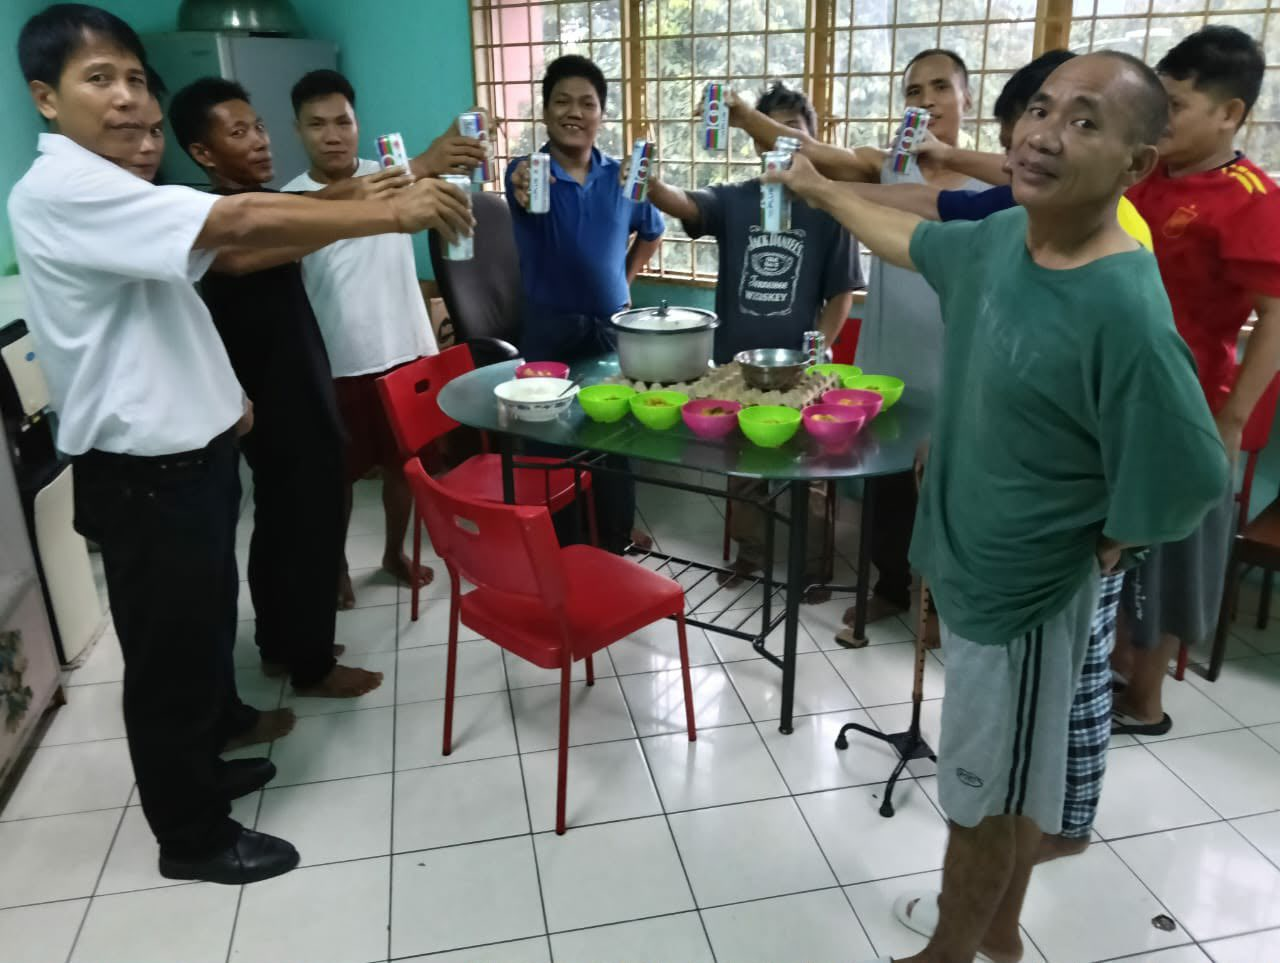
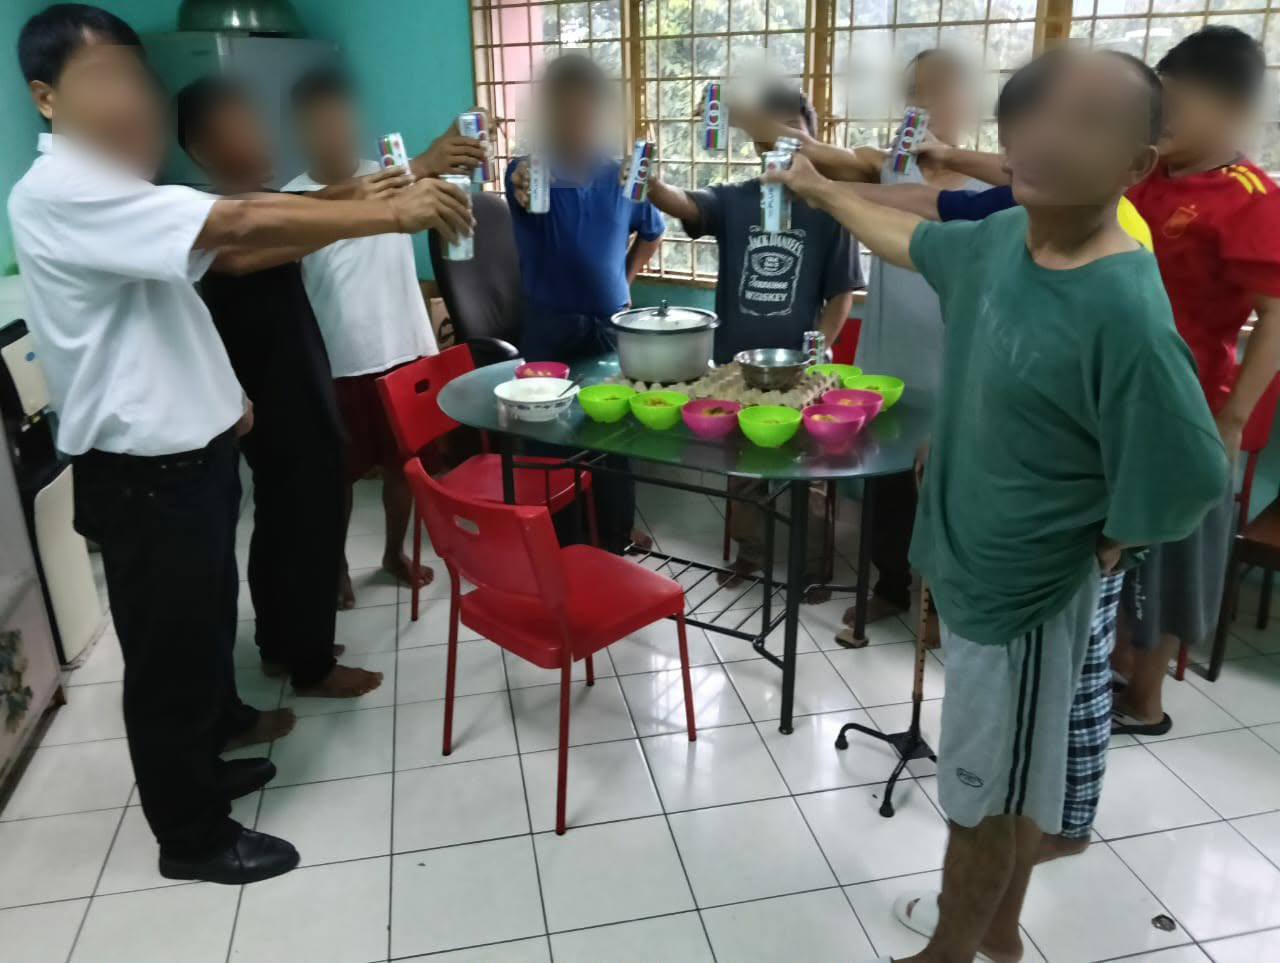
Update version to 1.1.0, add private directory to .gitignore, and update sitemap lastmod dates. Include Facebook App ID meta tag in layout.

diff --git a/src/app/layout.tsx b/src/app/layout.tsx
@@ -17,6 +17,12 @@ const poppins = Poppins({
   variable: '--font-poppins',
 })
 
+// Optional: set NEXT_PUBLIC_FACEBOOK_APP_ID (or NEXT_PUBLIC_FB_APP_ID) to emit fb:app_id for social debuggers.
+const facebookAppId =
+  process.env.NEXT_PUBLIC_FACEBOOK_APP_ID?.trim() ||
+  process.env.NEXT_PUBLIC_FB_APP_ID?.trim() ||
+  ''
+
 export const metadata: Metadata = {
   title: seoConfig.default.title,
   description: seoConfig.default.description,
@@ -91,6 +97,9 @@ export default function RootLayout({
 }) {
   return (
     <html lang="en" className={`${inter.variable} ${poppins.variable}`}>
+      <head>
+        {facebookAppId ? <meta property="fb:app_id" content={facebookAppId} /> : null}
+      </head>
       <body className={`${inter.className} min-h-screen`}>
         <div className="flex flex-col min-h-screen">
           <Navbar />
